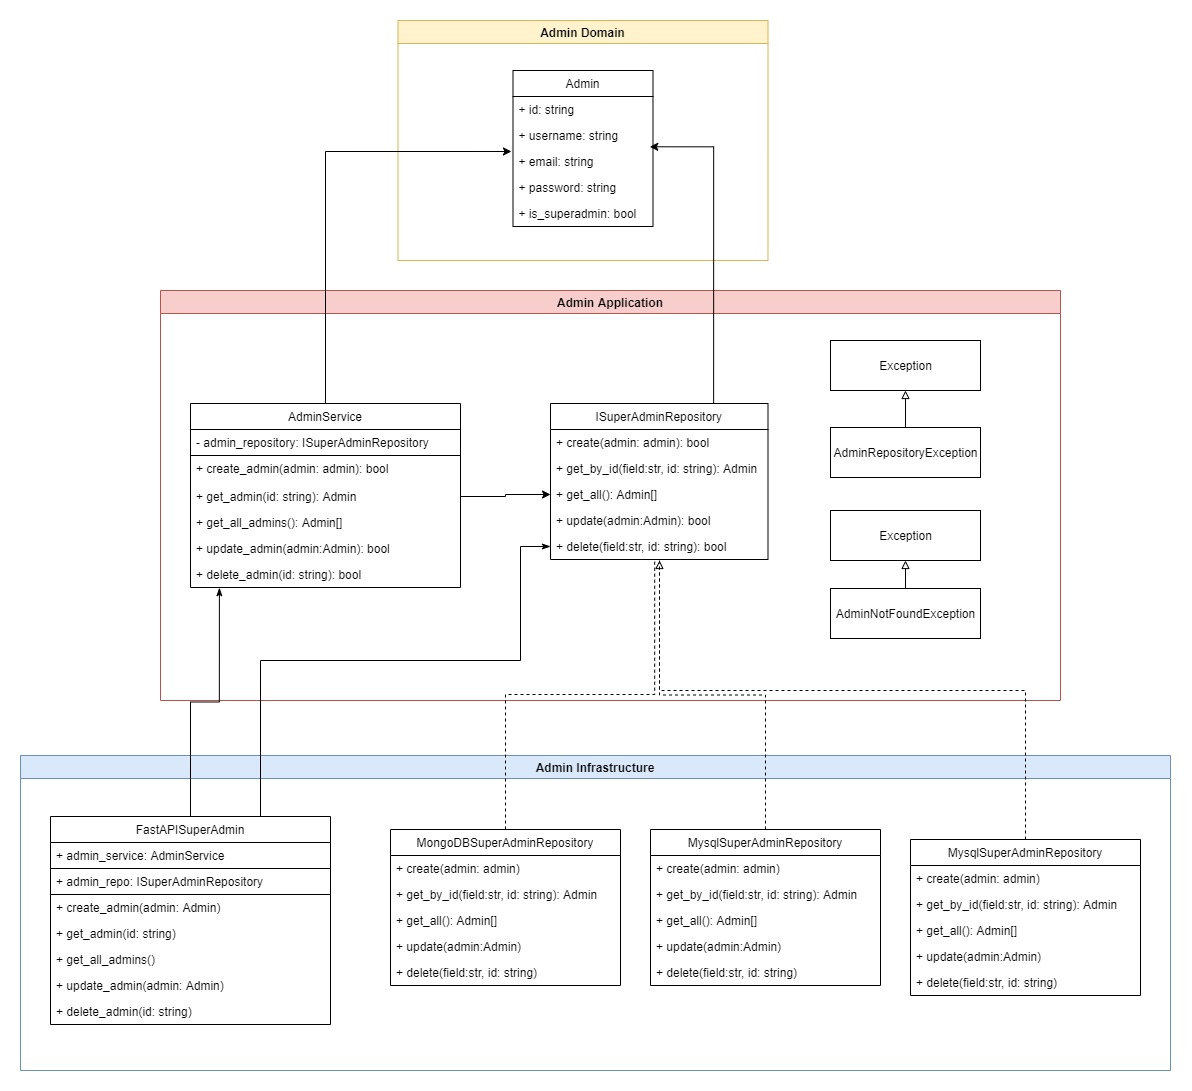
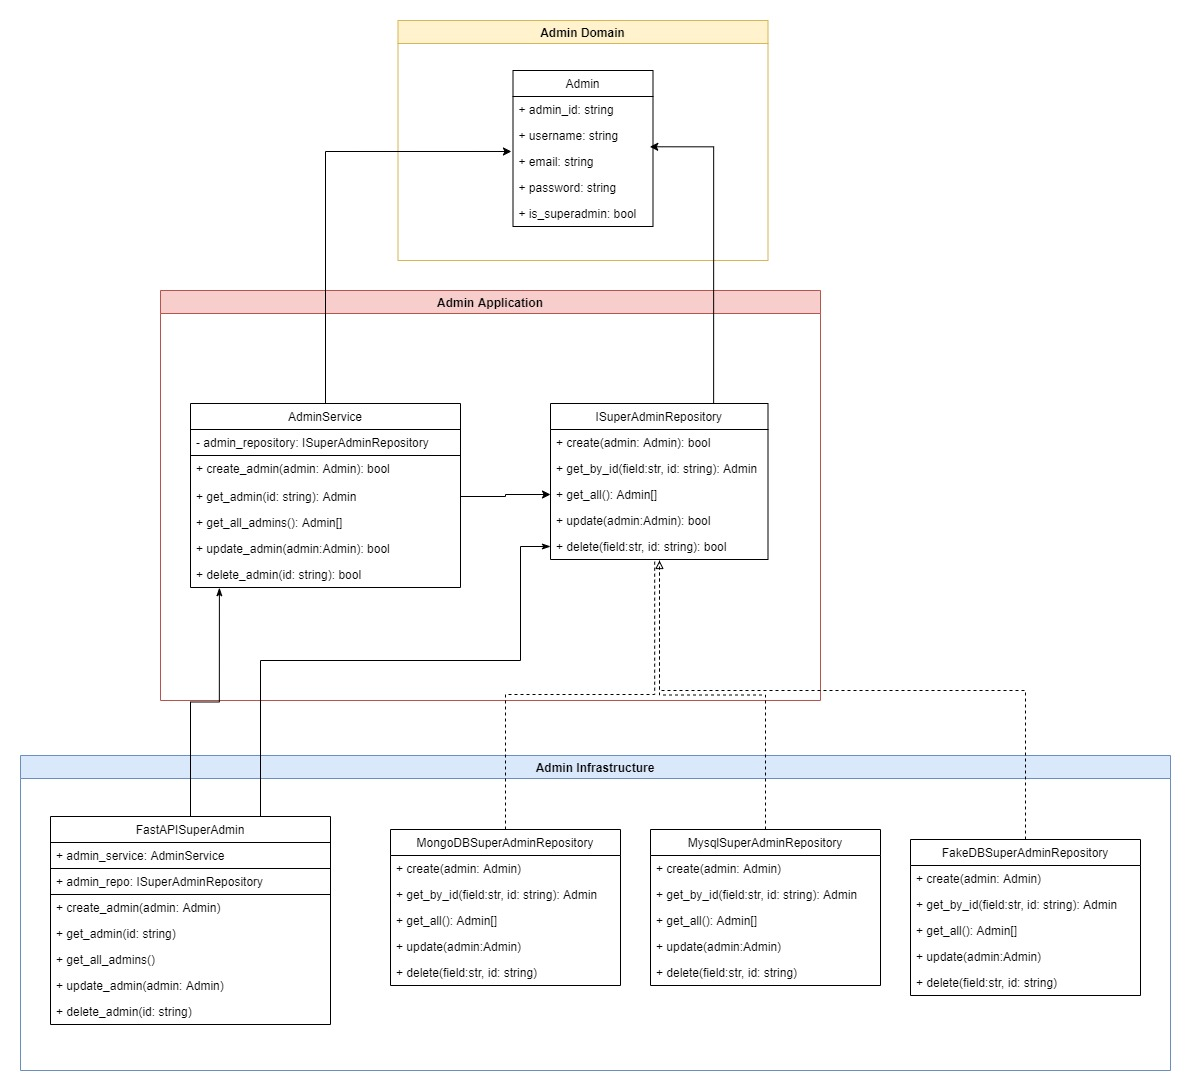
refactor: remove custom exceptions from admin_service and moved to adminapi_fastapi, admin_service only returns values

diff --git a/admin/infrastructure/adminapi_fastapi.py b/admin/infrastructure/adminapi_fastapi.py
@@ -1,6 +1,6 @@
 from fastapi import APIRouter, HTTPException, status
 from admin.domain.admin_model import Admin
-from admin.application.superadmin_repository import ISuperAdminRepository, AdminRepositoryException
+from admin.application.superadmin_repository import ISuperAdminRepository
 from admin.infrastructure.mongodb_admin_repository import MongoDBSuperAdminRepository
 from admin.application.admin_service import AdminService
 from passlib.context import CryptContext
@@ -19,64 +19,63 @@ crypt = CryptContext(schemes=["bcrypt"], deprecated="auto")
 
 @router.post("/", response_model=Admin)
 async def create_admin(admin: Admin):
-    try:
-        admin.password = crypt.hash(admin.password)
-        result = admin_service.create_admin(admin)
-        if result:
-            raise HTTPException(
-                status_code=status.HTTP_201_CREATED, 
-                detail="User created")
-    except AdminRepositoryException as ex:
+    admin.password = crypt.hash(admin.password)
+    result = admin_service.create_admin(admin)
+    if result:
+        raise HTTPException(
+            status_code=status.HTTP_201_CREATED,
+            detail="Admin created")
+    else:
         raise HTTPException(
             status_code=status.HTTP_409_CONFLICT,
-            detail=f"{ex}"
-        ) from ex
+            detail="Admin could not be created")
+    
    
 
 @router.get("/{admin_id}")
 async def get_admin(admin_id: str) -> Admin:
-    try:
-        admin = admin_service.get_admin_by_id("email", admin_id)
-        if admin is None:
-            raise HTTPException(
-                status_code=status.HTTP_404_NOT_FOUND, detail="Admin not found")
-        return admin
-    except AdminRepositoryException as exc:
+    admin = admin_service.get_admin_by_id("email", admin_id)
+    if admin is None:
         raise HTTPException(
-            status_code=status.HTTP_500_INTERNAL_SERVER_ERROR, detail=str(exc)) from exc
+            status_code=status.HTTP_204_NO_CONTENT, 
+            detail="Admin not found")
+    return admin
+
 
 @router.get("/")
 async def get_all_admins() -> list[Admin]:
-    try:
-        admins = admin_service.get_all_admins()
-        return admins
-    except AdminRepositoryException as exc:
+    admins = admin_service.get_all_admins()
+    if len(admins) == 0:
         raise HTTPException(
-            status_code=status.HTTP_404_NOT_FOUND, detail=str(exc)) from exc
+            status_code=status.HTTP_204_NO_CONTENT,
+            detail="Admins not found")
+    return admins
+        
+    
 
-@router.put("/{admin_id}")
+@router.put("/")
 async def update_admin(admin: Admin):
-    try:
-        if admin.password:
-            admin.password = crypt.hash(admin.password)
-        result = admin_service.update_admin(admin)
-        if result:
-            raise HTTPException(
-                status_code=status.HTTP_200_OK,
-                detail=f"Admin with email {admin.email} updated from db")
-    except AdminRepositoryException as ex:
+    if admin.password:
+        admin.password = crypt.hash(admin.password)
+    result = admin_service.update_admin(admin)
+    if result:
         raise HTTPException(
-            status_code=status.HTTP_409_CONFLICT, detail=str(ex)) from ex
-
+            status_code=status.HTTP_200_OK,
+            detail=f"Admin with email {admin.email} updated in db")
+    else:
+        raise HTTPException(
+            status_code=status.HTTP_204_NO_CONTENT,
+            detail=f"Admin with email {admin.email} could not be updated")
 
 @router.delete("/{admin_id}")
 async def delete_admin(admin_id: str):
-    try:
-        result = admin_service.delete_admin("email", admin_id)
-        if result:
-            raise HTTPException(
-                status_code=status.HTTP_200_OK,
-                detail=f"Admin with id {admin_id} deleted from db")
-    except AdminRepositoryException as exc:
+    result = admin_service.delete_admin("email", admin_id)
+    if result:
         raise HTTPException(
-            status_code=status.HTTP_409_CONFLICT, detail=str(exc)) from exc
+            status_code=status.HTTP_200_OK,
+            detail=f"Admin with id {admin_id} deleted from db")
+    else:
+        raise HTTPException(
+            status_code=status.HTTP_204_NO_CONTENT,
+            detail=f"Admin with id {admin_id} could not be deleted")
+

diff --git a/admin/application/admin_service.py b/admin/application/admin_service.py
@@ -1,4 +1,4 @@
-from admin.application.superadmin_repository import ISuperAdminRepository, AdminRepositoryException
+from admin.application.superadmin_repository import ISuperAdminRepository
 from admin.domain.admin_model import Admin
 
 class AdminService:
@@ -7,11 +7,8 @@ class AdminService:
 
     def create_admin(self, new_admin: Admin) -> bool:
         if isinstance(self.get_admin_by_id("email", new_admin.email), Admin):
-            raise AdminRepositoryException(f"Admin with id {new_admin.email} already in db")
-        result = self.__admin_repository.create(new_admin)
-        if result:
-            return result
-        raise AdminRepositoryException("Admin could not be created in db")
+            return False
+        return self.__admin_repository.create(new_admin)
     
     def get_admin_by_id(self, field: str, admin_id: str) -> Admin:
         admin = self.__admin_repository.get_by_id(field, admin_id)
@@ -21,22 +18,9 @@ class AdminService:
         return self.__admin_repository.get_all()
     
     def update_admin(self, admin: Admin) -> bool:
-        # If the admin already has the values we are trying to update, we return True directly
-        current_admin = self.get_admin_by_id("email", admin.email)
-        if (current_admin is not None and current_admin.username == admin.username and
-            current_admin.password == admin.password):
-            raise AdminRepositoryException(f"Admin with id {current_admin.email} already updated")
         admin.is_superadmin = False
-        result = self.__admin_repository.update(admin)
-        if result:
-            return result
-        raise AdminRepositoryException(
-            f"Admin with id {current_admin.email} could not be updated")
+        return self.__admin_repository.update(admin)
     
     def delete_admin(self, field: str, admin_id: str) -> bool:
-        result = self.__admin_repository.delete(field, admin_id)
-        if result:
-            return result
-        raise AdminRepositoryException(
-            f"Admin with {field} {admin_id} not found")
+        return self.__admin_repository.delete(field, admin_id)
 

diff --git a/admin/application/superadmin_repository.py b/admin/application/superadmin_repository.py
@@ -22,6 +22,3 @@ class ISuperAdminRepository(abc.ABC):
     @abc.abstractmethod
     def delete(self, field: str, key: str) -> bool:
         raise NotImplementedError
-    
-class AdminRepositoryException(Exception):
-    pass

diff --git a/admin/domain/admin_model.py b/admin/domain/admin_model.py
@@ -14,6 +14,3 @@ def admin_schema(admin) -> dict:
 
 def admins_schema(admins) -> list:
     return [admin_schema(admin) for admin in admins]
-
-class AdminNotFoundException(Exception):
-    pass
